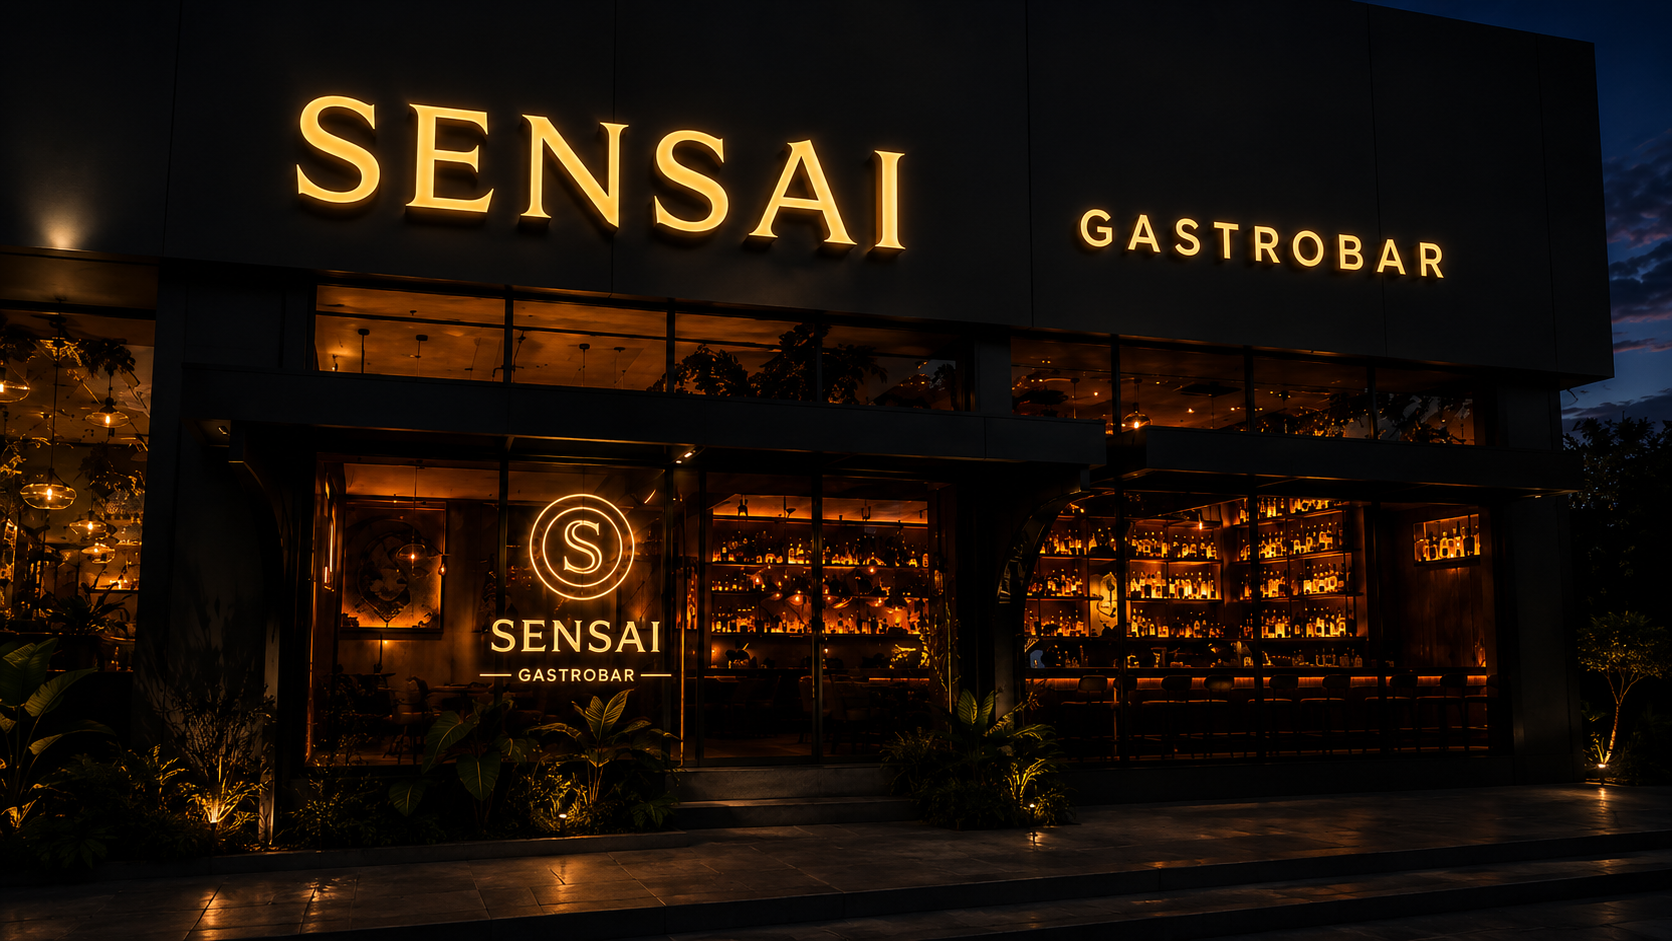
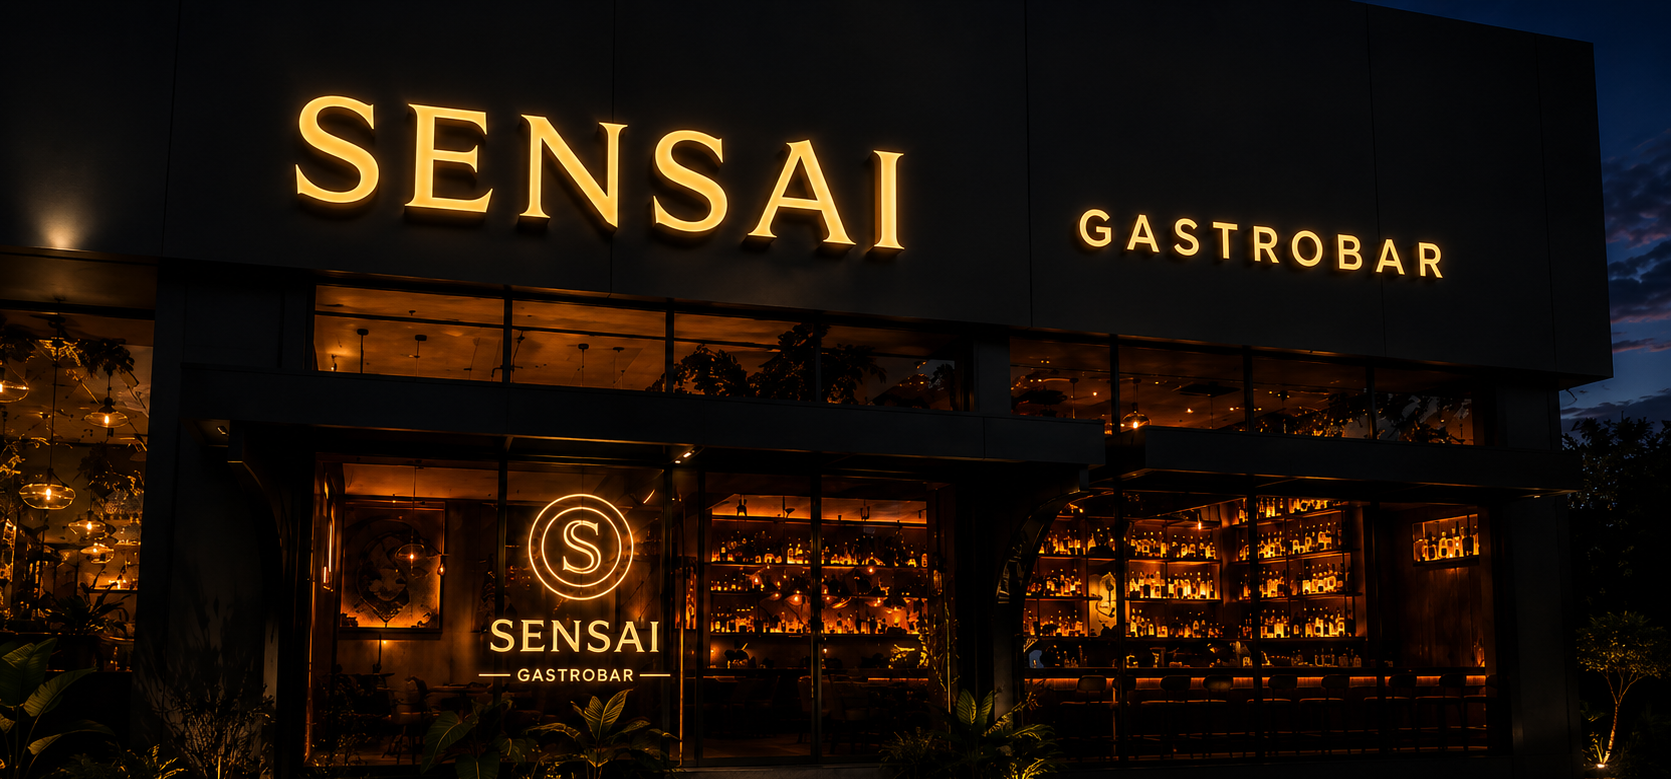
Adjust Sensai hero image framing

diff --git a/app/page.tsx b/app/page.tsx
@@ -20,7 +20,7 @@ export default function Home() {
             fill
             priority
             sizes="100vw"
-            className="object-cover object-[28%_center] md:object-center"
+            className="object-cover object-[28%_center] md:object-[center_27%]"
           />
           <div className="absolute inset-0 bg-gradient-to-b from-[#100805]/10 via-[#100805]/32 to-[#100805]" />
         </div>
